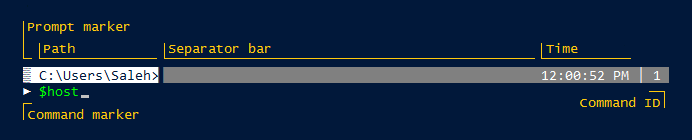
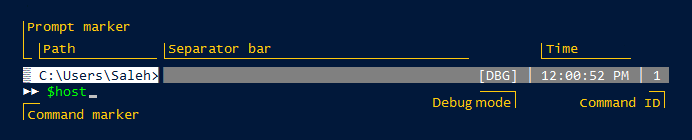
Adding DEBUG MODE indicator

diff --git a/README.md b/README.md
@@ -12,12 +12,13 @@ Structure:
 ![Structure](assets/structure.png)
 
 ## Details
-- **Prompt Marker**: Indicating begin of a new prompt.
+- **Prompt marker**: Indicating begin of a new prompt.
 - **Path**: Current path and address.
 - **Time**: Time of start of current prompt, indeed, execution time of last command.
 - **Command ID**: ID for new command (You can use this ID to refer to the command later or use it in TAB completion).
 - **Separator bar**: A bar for separating new command from previous command.
-- **Command Marker**: Indicating begin of new command and displaying cursor, it can also display nested prompts.
+- **Command marker**: Indicating begin of new command and displaying cursor, it also displays nested prompts by repeated marker.
+- **Debug mode**: Indicating whether is in debugging mode or not.
 
 ## Installation
 Simply, put content of `GoodPrompt.ps1` to your PowerShell's profile and reopen PowerShell.
